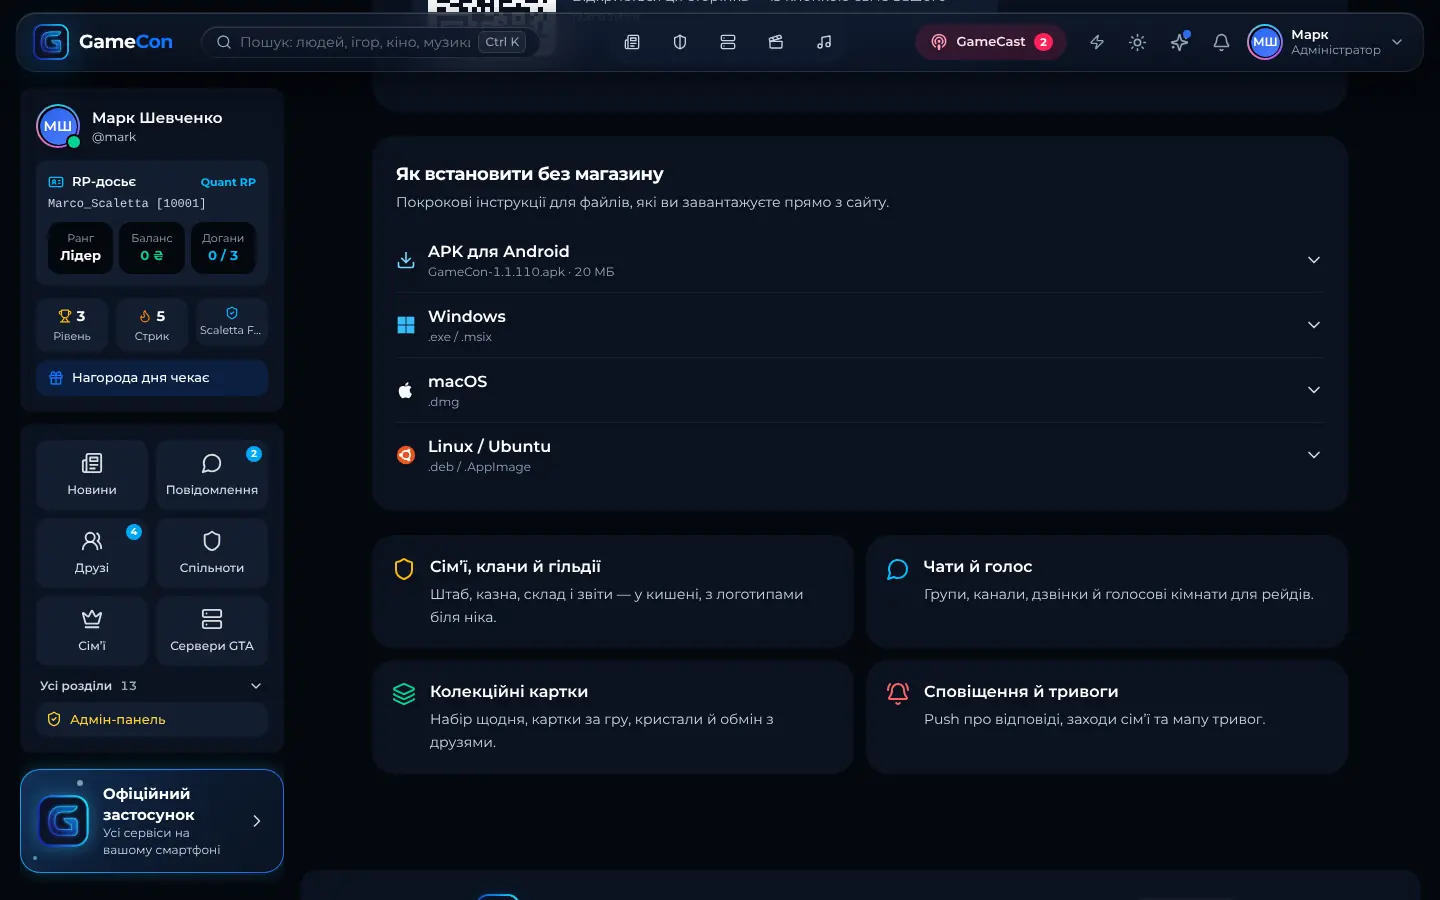
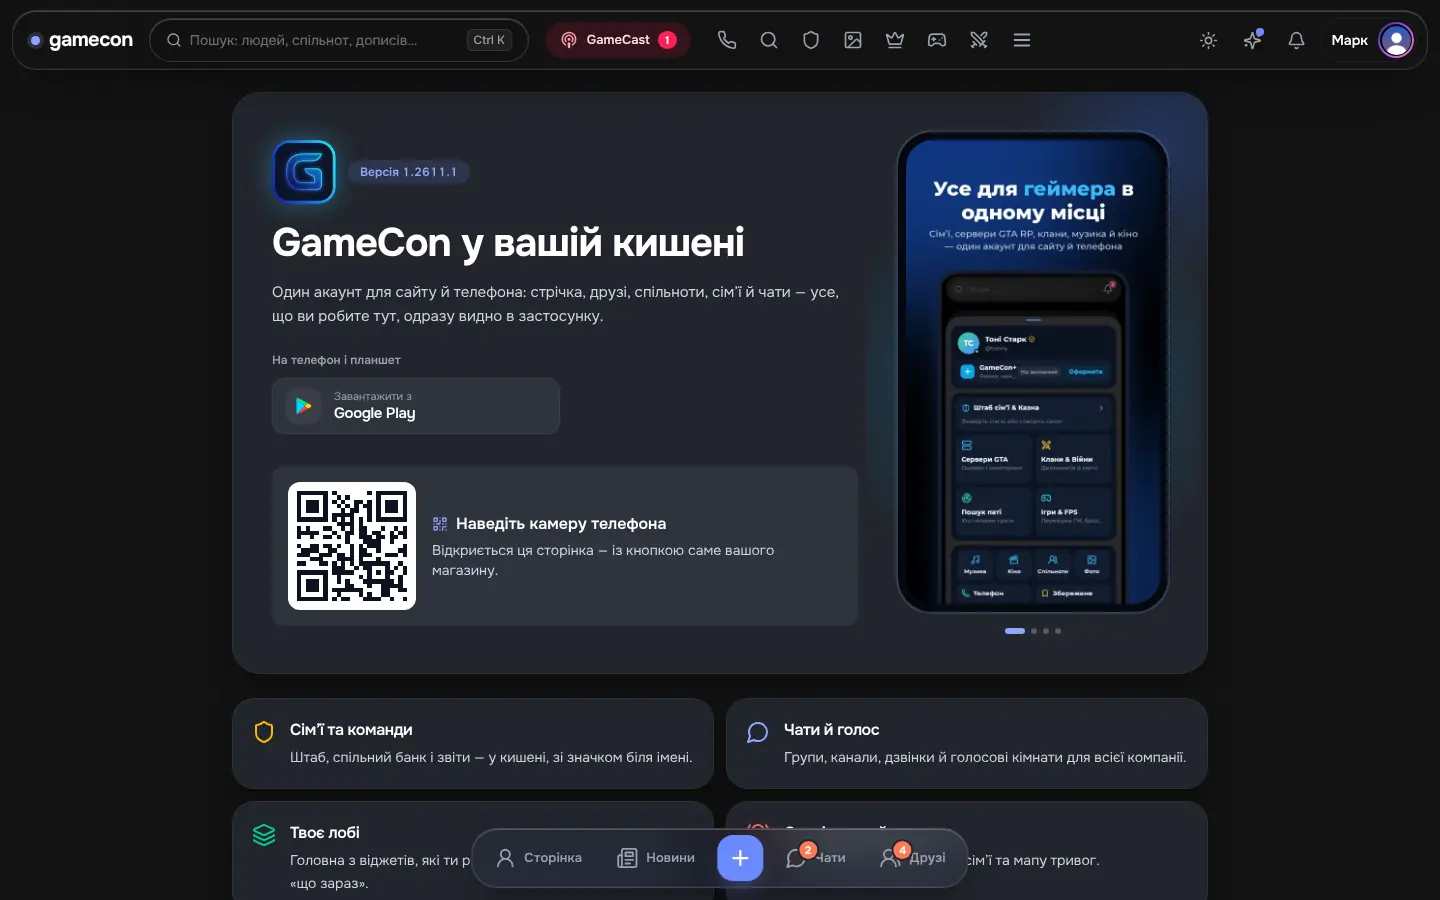
Довідка: усі кадри переzнято в дизайні «Лобі» — розробникам (ключі, новий застосунок, оверлей, SDK), оверлей у підключених застосунках, сторінка застосунку з QR і магазинами
Claude-Session: https://claude.ai/code/session_01HanRrFN25zmwZ8V14mpsTd

diff --git a/resources/js/components/help/help-shots.ts b/resources/js/components/help/help-shots.ts
@@ -83,17 +83,17 @@ const HELP_SHOTS: Record<string, HelpShotMeta> = {
         h: 900,
         phone: false,
         regions: {
-            install: {
-                x: 27.5,
-                y: 17.8,
-                w: 64.4,
-                h: 3.1,
+            qr: {
+                x: 20,
+                y: 53.6,
+                w: 8.9,
+                h: 14.2,
             },
-            apk: {
-                x: 27.5,
-                y: 25.3,
-                w: 64.4,
-                h: 7.1,
+            shots: {
+                x: 69.8,
+                y: 69.8,
+                w: 1.4,
+                h: 0.7,
             },
         },
     },
@@ -324,38 +324,38 @@ const HELP_SHOTS: Record<string, HelpShotMeta> = {
     'dev-keys': {
         src: '/images/help/dev-keys.webp',
         w: 920,
-        h: 461,
+        h: 525,
         phone: false,
         regions: {
             client: {
-                x: 3.5,
-                y: 19.1,
-                w: 45.9,
-                h: 13,
+                x: 2.8,
+                y: 16.4,
+                w: 46.5,
+                h: 11.4,
             },
             public: {
                 x: 50.7,
-                y: 19.1,
-                w: 45.9,
-                h: 13,
+                y: 16.4,
+                w: 46.5,
+                h: 11.4,
             },
             bot: {
-                x: 3.5,
-                y: 34.7,
-                w: 93,
-                h: 11.3,
+                x: 2.8,
+                y: 42.3,
+                w: 94.3,
+                h: 9.9,
             },
             token: {
-                x: 4.8,
-                y: 77.2,
-                w: 13.7,
-                h: 6.9,
+                x: 4.1,
+                y: 80.4,
+                w: 12.7,
+                h: 6.1,
             },
             redirects: {
-                x: 3.5,
-                y: 89.4,
-                w: 93,
-                h: 3.7,
+                x: 2.8,
+                y: 91.8,
+                w: 94.3,
+                h: 3.2,
             },
         },
     },
@@ -366,9 +366,9 @@ const HELP_SHOTS: Record<string, HelpShotMeta> = {
         phone: false,
         regions: {
             name: {
-                x: 3.5,
-                y: 6.7,
-                w: 93,
+                x: 2.8,
+                y: 6,
+                w: 94.3,
                 h: 6.7,
             },
             about: {
@@ -378,9 +378,9 @@ const HELP_SHOTS: Record<string, HelpShotMeta> = {
                 h: 100,
             },
             site: {
-                x: 3.5,
-                y: 22.7,
-                w: 93,
+                x: 2.8,
+                y: 22,
+                w: 94.3,
                 h: 6.7,
             },
             redirects: {
@@ -390,67 +390,67 @@ const HELP_SHOTS: Record<string, HelpShotMeta> = {
                 h: 100,
             },
             public: {
-                x: 3.5,
-                y: 43.6,
-                w: 93,
+                x: 2.8,
+                y: 42.9,
+                w: 94.3,
                 h: 4,
             },
             scopes: {
-                x: 3.5,
-                y: 48.9,
-                w: 93,
+                x: 2.8,
+                y: 48.2,
+                w: 94.3,
                 h: 48.2,
             },
             save: {
-                x: 85.3,
-                y: 98.4,
-                w: 11.2,
-                h: 1.6,
+                x: 86.6,
+                y: 97.8,
+                w: 10.6,
+                h: 2.2,
             },
         },
     },
     'dev-overlay': {
         src: '/images/help/dev-overlay.webp',
-        w: 880,
+        w: 892,
         h: 822,
         phone: false,
         regions: {
             stage: {
-                x: 1.4,
+                x: 1.3,
                 y: 1.5,
                 w: 97.3,
-                h: 58.6,
+                h: 59.4,
             },
             look: {
-                x: 1.4,
-                y: 64.9,
+                x: 1.3,
+                y: 66.7,
                 w: 97.3,
-                h: 35.1,
+                h: 33.3,
             },
         },
     },
     'dev-overlay-layout': {
         src: '/images/help/dev-overlay-layout.webp',
-        w: 880,
+        w: 892,
         h: 835,
         phone: false,
         regions: {
             sections: {
-                x: 3.2,
+                x: 3.1,
                 y: 6.7,
-                w: 93.6,
+                w: 93.7,
                 h: 3.4,
             },
             corners: {
-                x: 20.9,
+                x: 21.3,
                 y: 49.1,
-                w: 58.2,
+                w: 57.4,
                 h: 34.5,
             },
             tray: {
-                x: 3.2,
+                x: 3.1,
                 y: 84.6,
-                w: 93.6,
+                w: 93.7,
                 h: 8,
             },
         },
@@ -462,33 +462,33 @@ const HELP_SHOTS: Record<string, HelpShotMeta> = {
         phone: false,
         regions: {
             groups: {
-                x: 30,
-                y: 68.4,
-                w: 59.4,
+                x: 19.9,
+                y: 67.1,
+                w: 60.3,
                 h: 4.9,
             },
             items: {
-                x: 30,
-                y: 74.6,
-                w: 59.4,
+                x: 19.9,
+                y: 73.8,
+                w: 60.3,
                 h: 4.9,
             },
             onboarding: {
-                x: 30,
-                y: 80.8,
-                w: 59.4,
+                x: 19.9,
+                y: 80.4,
+                w: 60.3,
                 h: 4.9,
             },
             draft: {
-                x: 63.9,
+                x: 56,
                 y: 87.1,
-                w: 13.5,
+                w: 12.7,
                 h: 4,
             },
             publish: {
-                x: 78,
+                x: 69.4,
                 y: 87.1,
-                w: 11.4,
+                w: 10.8,
                 h: 4,
             },
         },
@@ -1351,38 +1351,38 @@ const HELP_SHOTS: Record<string, HelpShotMeta> = {
     'overlay-companion': {
         src: '/images/help/overlay-companion.webp',
         w: 670,
-        h: 365,
+        h: 349,
         phone: false,
         regions: {
             preset: {
-                x: 64,
-                y: 27.7,
-                w: 32.4,
-                h: 11,
+                x: 65.6,
+                y: 24.4,
+                w: 30.8,
+                h: 11.5,
             },
             layout: {
-                x: 55.8,
-                y: 41.9,
-                w: 40.6,
-                h: 11,
+                x: 58.5,
+                y: 39.3,
+                w: 37.9,
+                h: 11.5,
             },
             density: {
                 x: 63,
-                y: 56.7,
+                y: 54.7,
                 w: 33.4,
-                h: 4.4,
+                h: 4.6,
             },
             streamer: {
                 x: 89.9,
-                y: 76.4,
+                y: 75.4,
                 w: 6.6,
-                h: 6.6,
+                h: 6.9,
             },
             reset: {
                 x: 3.6,
-                y: 87.9,
-                w: 28.1,
-                h: 6.6,
+                y: 87.4,
+                w: 26.2,
+                h: 6.9,
             },
         },
     },

diff --git a/app/Support/Help/HelpCatalog.php b/app/Support/Help/HelpCatalog.php
@@ -1732,8 +1732,8 @@ class HelpCatalog
                     'Віджет сім’ї на робочому столі показує головне про вашу сім’ю.',
                 ]),
                 self::shot('app-download', 'Застосунок', [
-                    'install' => 'Завантаження застосунку.',
-                    'apk' => 'APK для Android.',
+                    'qr' => 'QR-код — наведіть камеру телефона, щоб відкрити цю сторінку на ньому.',
+                    'shots' => 'Знімки застосунку; нижче — посилання на магазини для телефона й комп’ютера.',
                 ]),
             ], ['music/connect', 'groups/family-tools']),
 
